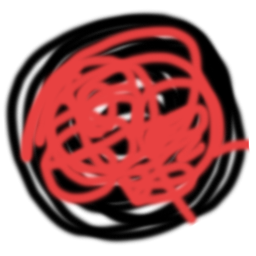
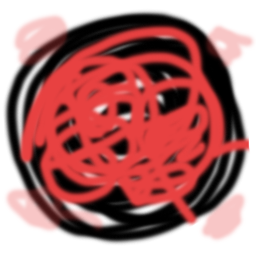
Texturized, alpha-blended triangles

diff --git a/softbodyrenderer.js b/softbodyrenderer.js
@@ -4,6 +4,7 @@ var SoftBodyRenderer = function(gl, src) {
     this.testSprite = new Sprite(src, Sprite.loadAsGLTexture(gl));
     this.gl = gl;
     this.vertexBuffer = gl.createBuffer();
+    this.texCoordBuffer = gl.createBuffer();
     
 };
 
@@ -36,12 +37,12 @@ SoftBodyRenderer.prototype.render = function(grid) {
     for (var x = 0; x < grid.width; ++x) {
         for (var y = 0; y < grid.height; ++y) {
             // Should do with an index buffer...
-            SoftBodyRenderer.pushGridCoords(arr, grid, x, y);
-            SoftBodyRenderer.pushGridCoords(arr, grid, x + 1, y);
-            SoftBodyRenderer.pushGridCoords(arr, grid, x, y + 1);
-            SoftBodyRenderer.pushGridCoords(arr, grid, x, y + 1);
-            SoftBodyRenderer.pushGridCoords(arr, grid, x + 1, y);
-            SoftBodyRenderer.pushGridCoords(arr, grid, x + 1, y + 1);
+            SoftBodyRenderer.pushGridCoords(arr, texArr, grid, x, y);
+            SoftBodyRenderer.pushGridCoords(arr, texArr, grid, x + 1, y);
+            SoftBodyRenderer.pushGridCoords(arr, texArr, grid, x, y + 1);
+            SoftBodyRenderer.pushGridCoords(arr, texArr, grid, x, y + 1);
+            SoftBodyRenderer.pushGridCoords(arr, texArr, grid, x + 1, y);
+            SoftBodyRenderer.pushGridCoords(arr, texArr, grid, x + 1, y + 1);
             triangleCount += 2;
         }
     }
@@ -49,13 +50,24 @@ SoftBodyRenderer.prototype.render = function(grid) {
     gl.bufferData(gl.ARRAY_BUFFER, new Float32Array(arr), gl.STATIC_DRAW);
     var positionAttribLocation = 0;
     gl.vertexAttribPointer(positionAttribLocation, 2, gl.FLOAT, false, 0, 0);
+    var texCoordAttribLocation = 1;
+    gl.bindBuffer(gl.ARRAY_BUFFER, this.texCoordBuffer);
+    gl.bufferData(gl.ARRAY_BUFFER, new Float32Array(texArr), gl.STATIC_DRAW);
+    gl.vertexAttribPointer(texCoordAttribLocation, 2, gl.FLOAT, false, 0, 0);
     gl.drawArrays(gl.TRIANGLES, 0, triangleCount * 3);
 };
 
-SoftBodyRenderer.pushGridCoords = function(target, grid, x, y) {
-    var positionsIndex = y + x * (grid.height + 1);
-    target.push(grid.positions[positionsIndex].x);
-    target.push(grid.positions[positionsIndex].y);
+SoftBodyRenderer.getGridPosition = function(grid, xInd, yInd) {
+    var positionsIndex = yInd + xInd * (grid.height + 1);
+    return grid.positions[positionsIndex];
+};
+
+SoftBodyRenderer.pushGridCoords = function(target, targetTexCoords, grid, xInd, yInd) {
+    var pos = SoftBodyRenderer.getGridPosition(grid, xInd, yInd);
+    target.push(pos.x);
+    target.push(pos.y);
+    targetTexCoords.push(xInd / grid.width);
+    targetTexCoords.push(yInd / grid.height);
 };
 
 SoftBodyRenderer.vertexSrc = [

diff --git a/index.html b/index.html
@@ -35,6 +35,8 @@ var Game = function(resizer) {
     gl.disable(gl.CULL_FACE);
     gl.disable(gl.DEPTH_TEST);
     gl.enable(gl.BLEND);
+    gl.blendFunc(gl.SRC_ALPHA, gl.ONE_MINUS_SRC_ALPHA);
+    gl.enableVertexAttribArray(1);
     SoftBodyRenderer.loadShaders(gl);
     Sprite.gl = gl;
     /*this.canvasUI = new CanvasUI({
